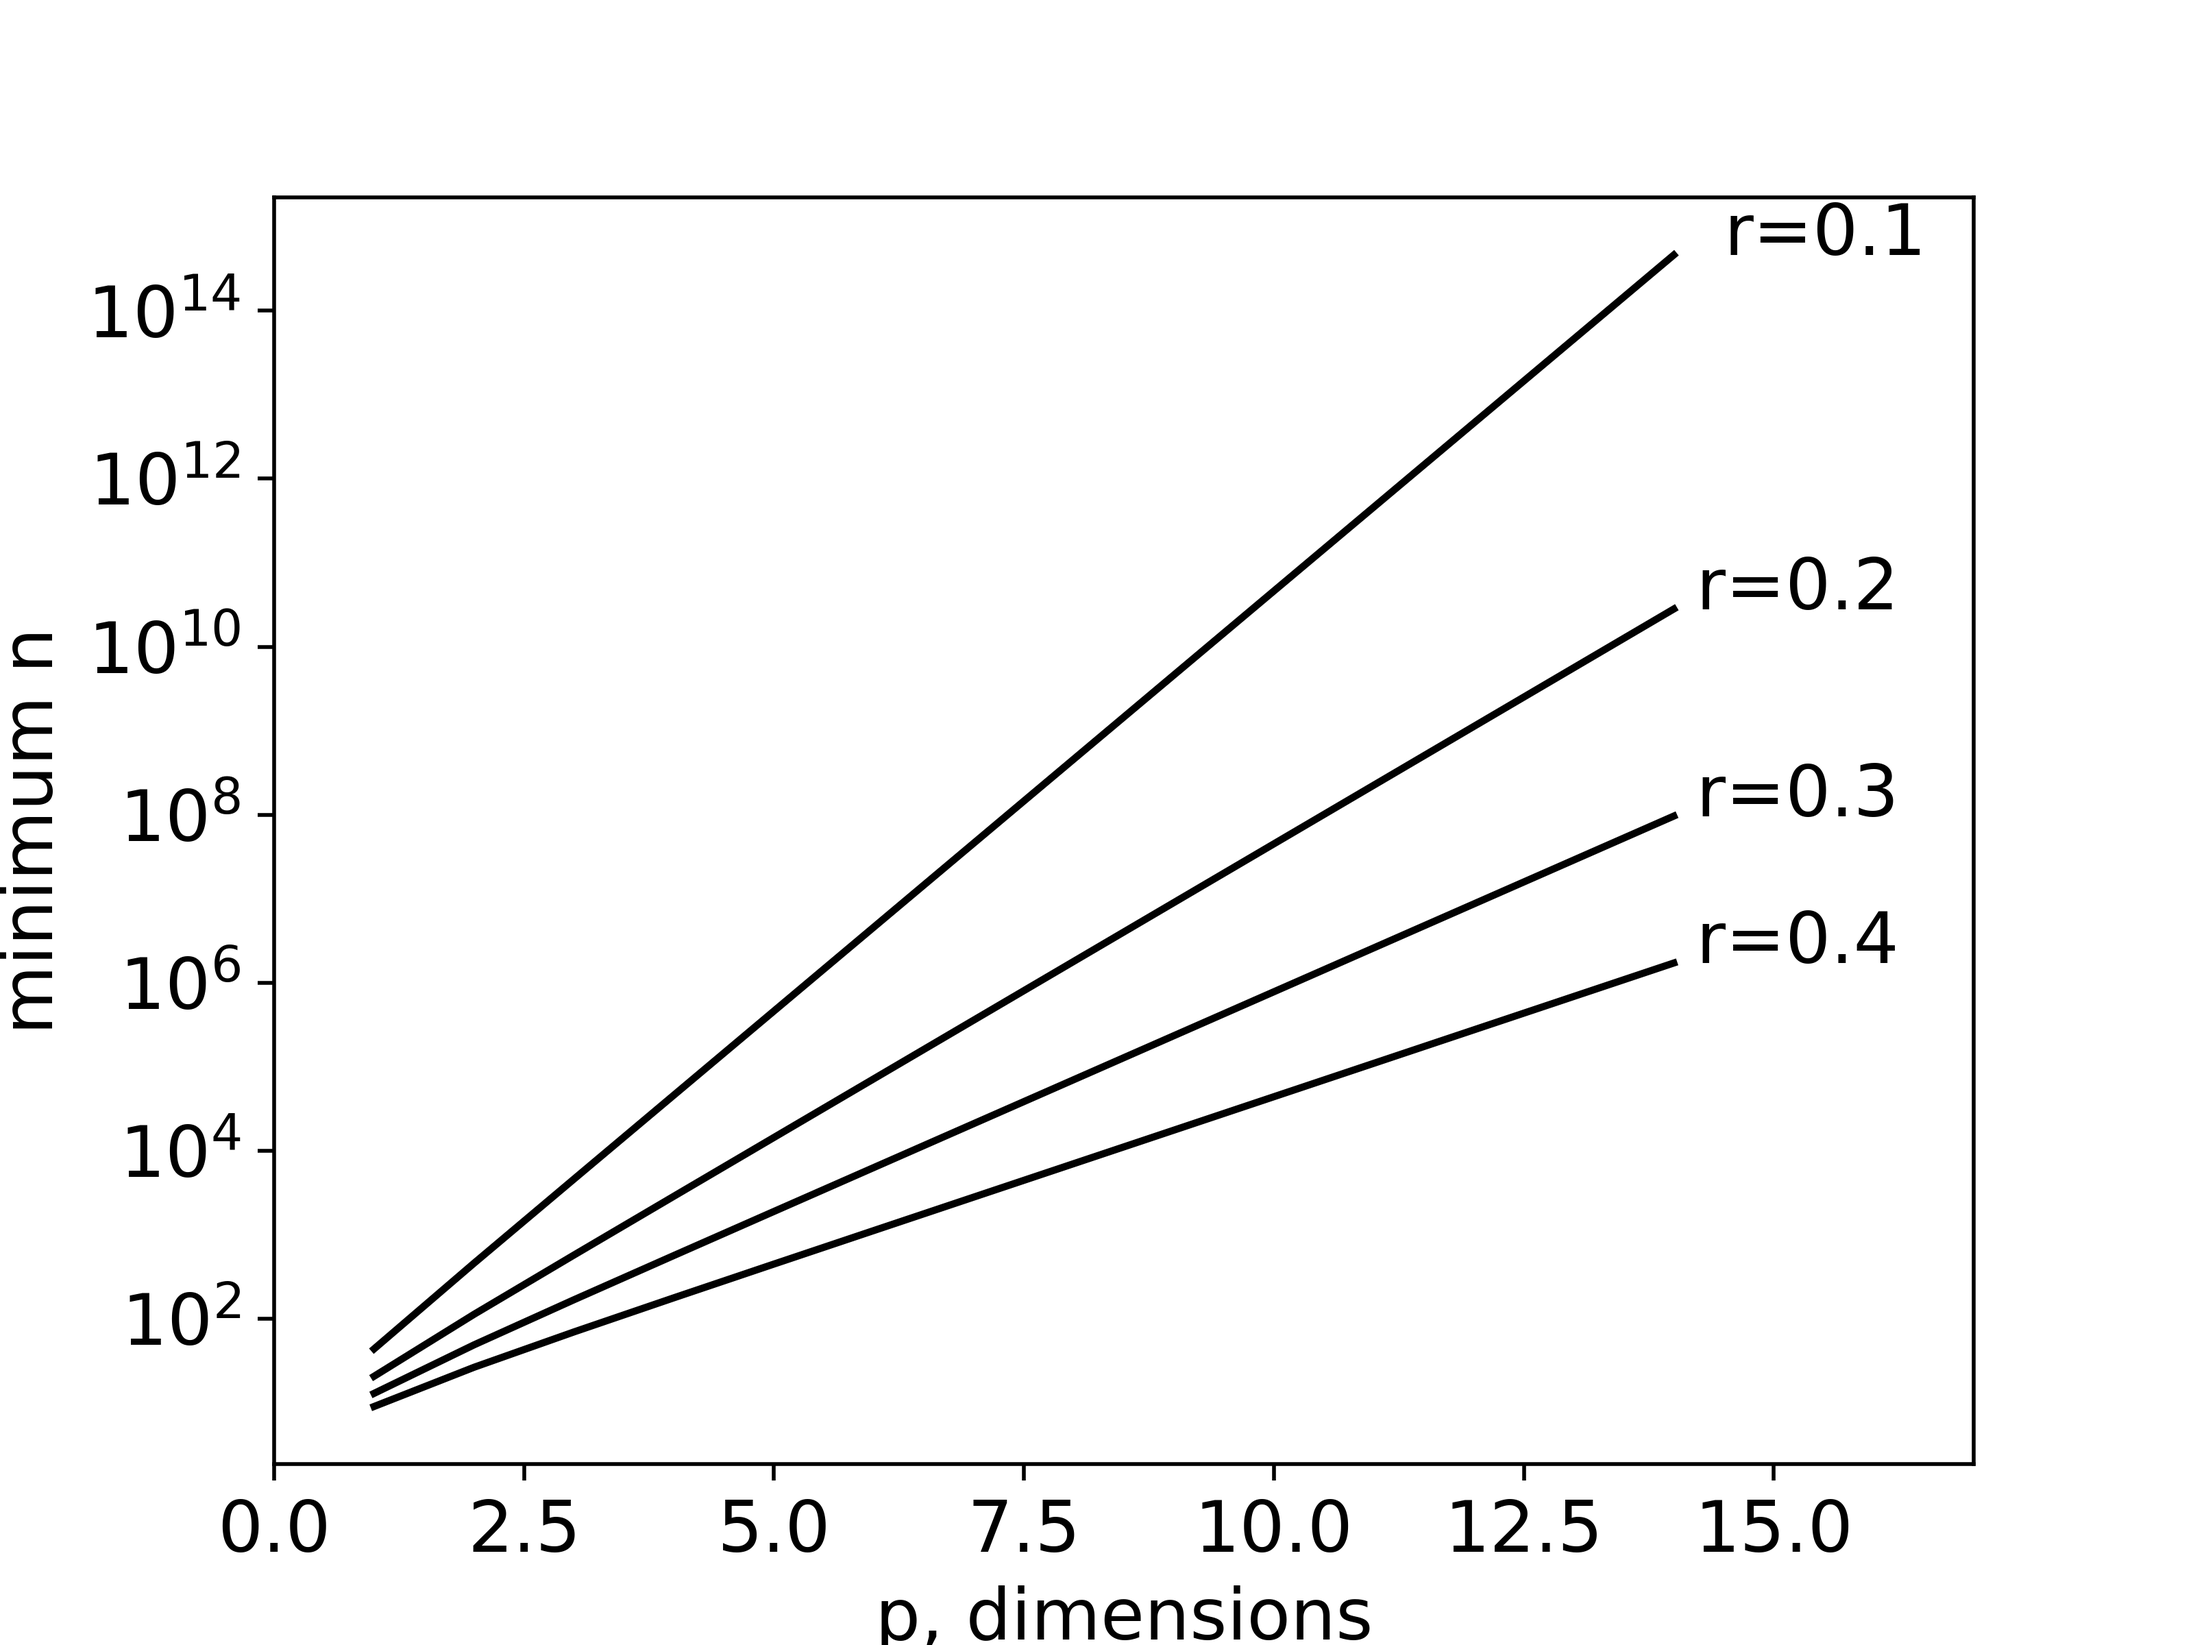
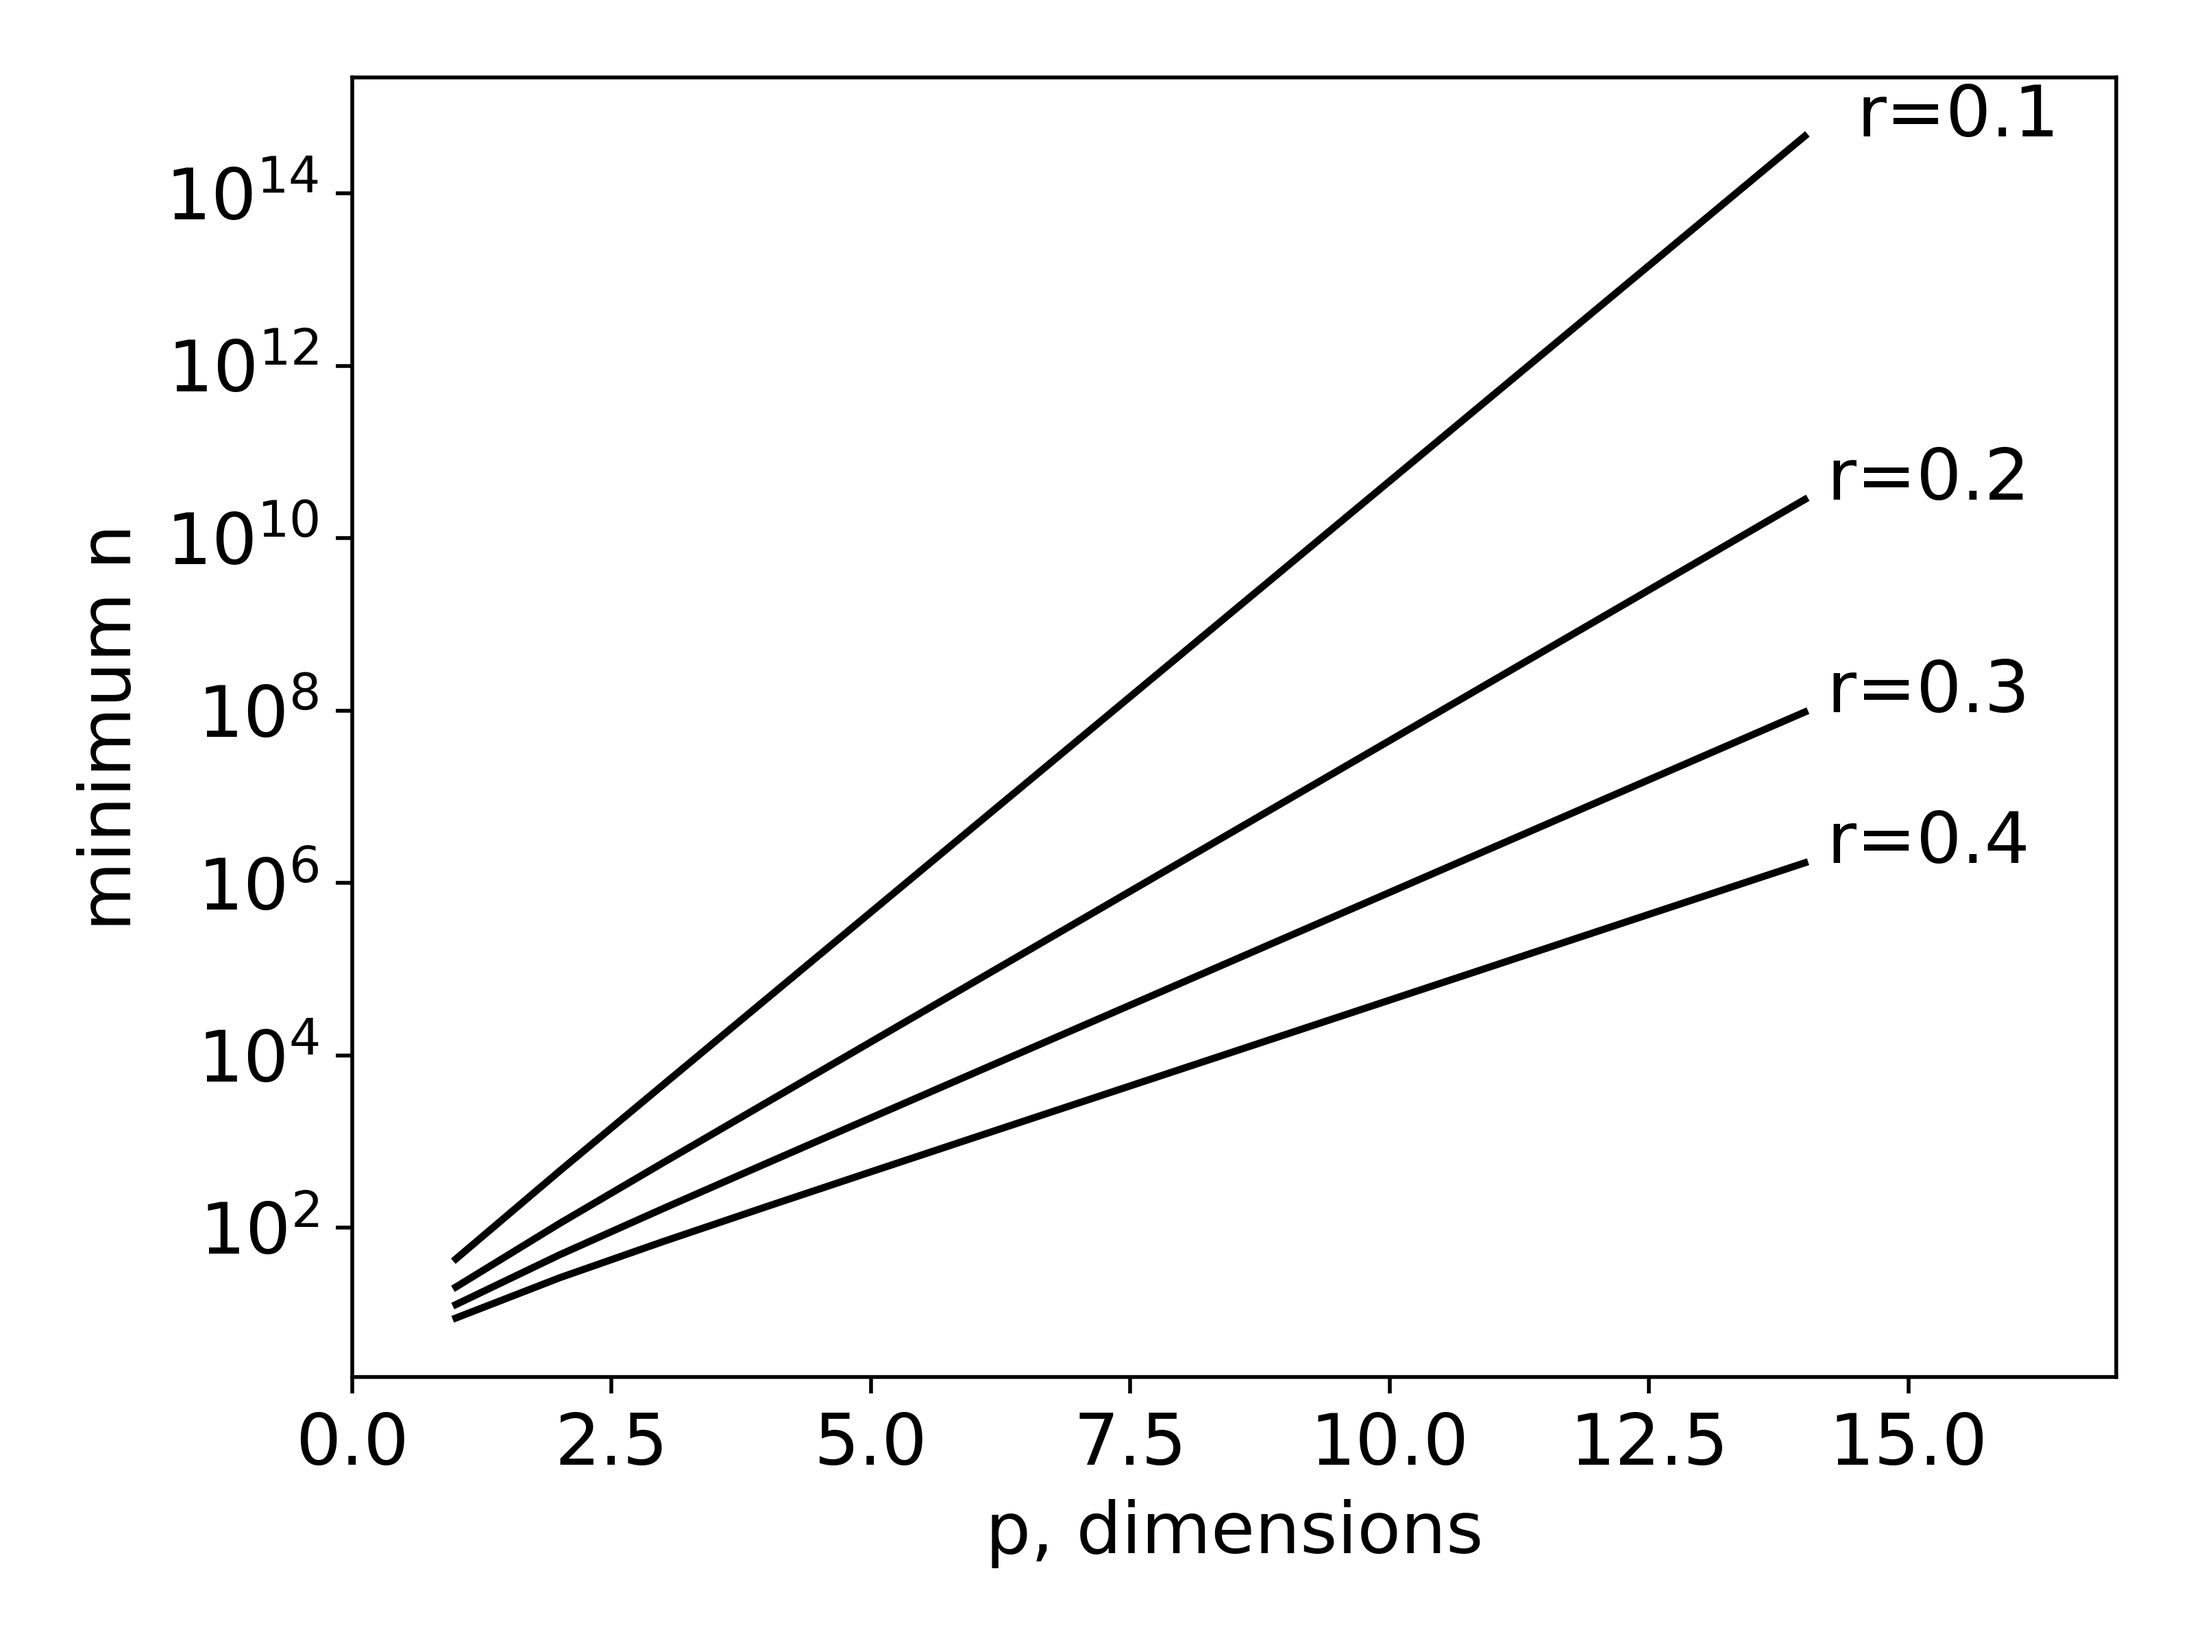
new images

diff --git a/knearest/curse.py b/knearest/curse.py
@@ -2,6 +2,8 @@ from ast import Lambda
 import numpy as np
 import matplotlib.pyplot as plt
 import matplotlib
+from matplotlib import rcParams
+rcParams.update({'figure.autolayout': True})
 
 font = {'size'   : 15}
 matplotlib.rc('font', **font)
